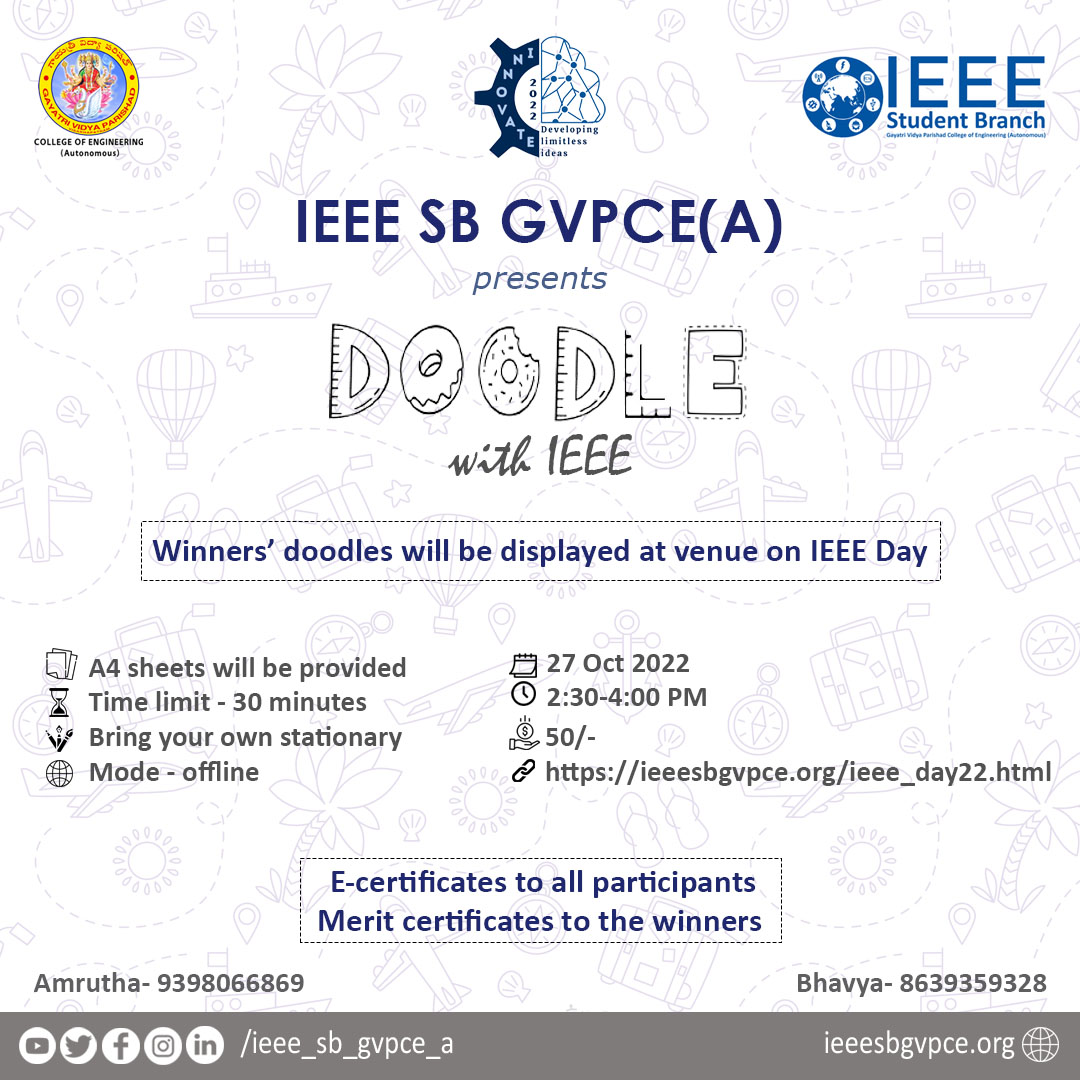
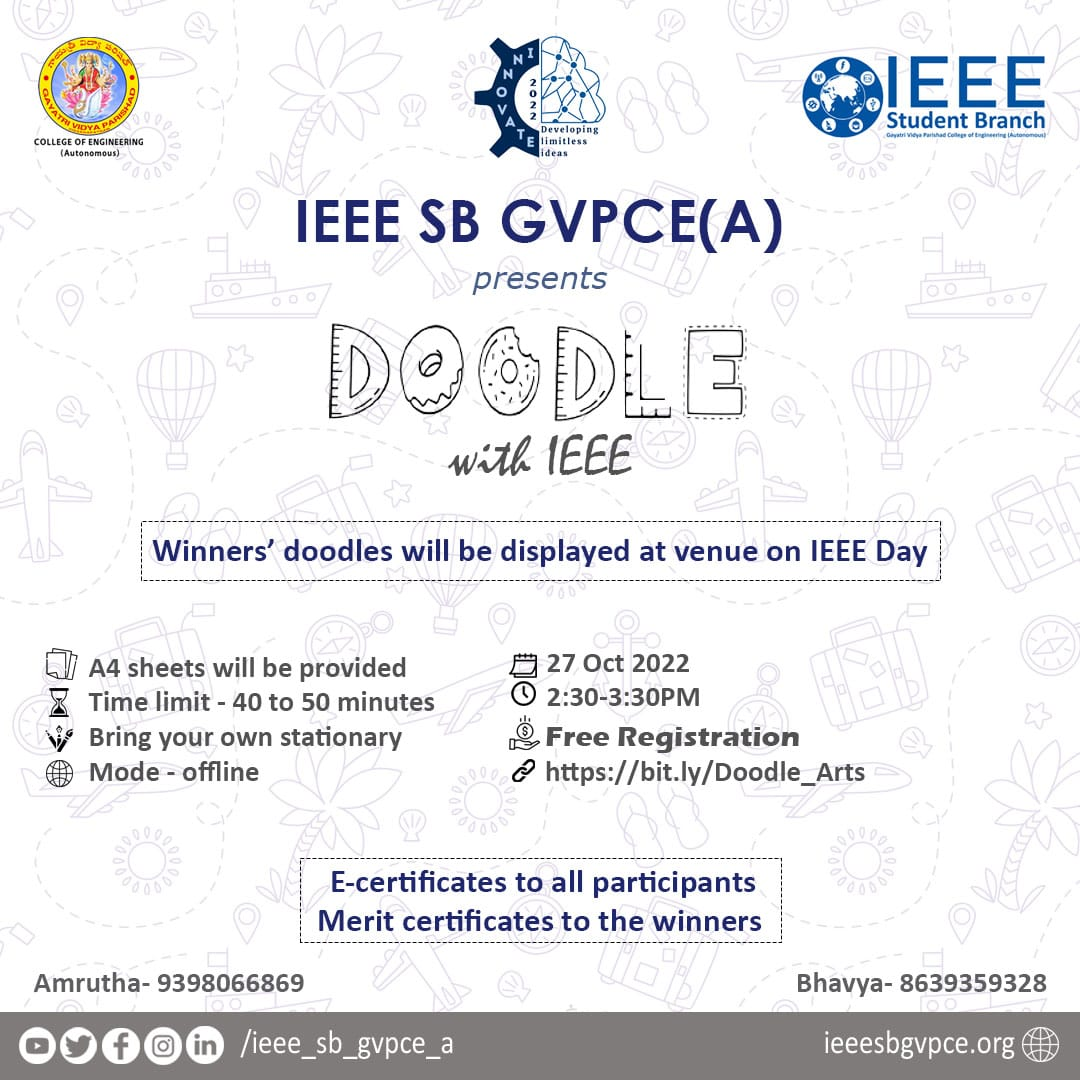
updates

diff --git a/ieee_day22.html b/ieee_day22.html
@@ -344,6 +344,28 @@
             </div>
           </div>
         </div>
+        <div class="accordion-item">
+          <h2 class="accordion-header">
+            <button type="button" class="accordion-button collapsed" data-bs-toggle="collapse"
+              data-bs-target="#collapseThree">
+              <h4 class="eventname">Script n' Strike</h4>
+            </button>
+          </h2>
+          <div class="accordion-collapse collapse" id="collapseThree" data-bs-parent="#accordionSection">
+            <div class="accordion-body">
+              <div class="card">
+                <img src="images/ieee_day22/script and strike.png" class="card-img-top" alt="..." />
+                <div class="card-body text-center">
+                  <h4 class="card-title">Script n’ Strike: </h4>
+                  <p class="card-text">Editing has become an important part of modern day’s lifestyle. Anyone can edit photos, but those who can edit videos have a different level. Showcase your video editing skills by registering for Script n’ Strike.
+                  </p>
+                  <a href="events\2022\ieee_day22\45_script_n'_strike.html"
+                    class="btn btn-primary event-page-link">Register Here</a>
+                </div>
+              </div>
+            </div>
+          </div>
+        </div>
       </div>
       <div class="tab-pane fade" id="page4" role="tabpanel" aria-labelledby="paget4">
         <div class="accordion mt-4" id="accordionSection">
@@ -698,11 +720,11 @@
 
           <div class="cost">
             <div style="text-align: center; width: 100%">
-              <span class="shop-item-price rupees colorincard"><strong>₹50</strong></span><br />
+              <span class="shop-item-price rupees colorincard"><strong>₹0</strong></span><br />
               <span class="ieee_mem colorincard"><strong>(IEEE members)</strong></span>
             </div>
             <div style="text-align: center; width: 100%">
-              <span class="shop-item-price rupees colorincard"><strong>₹50</strong> </span><br />
+              <span class="shop-item-price rupees colorincard"><strong>₹0</strong> </span><br />
               <span class="ieee_mem colorincard"><strong>(Non-IEEE)</strong></span>
             </div>
           </div>

diff --git a/events/2022/ieee_day22/46_vlsi.html b/events/2022/ieee_day22/46_vlsi.html
@@ -2,7 +2,7 @@
 <html>
 
 <head>
-    <title>VLSI Workshop
+    <title>SEMICONDUCTOR INDUSTRY
 
     </title>
     <script type="module" src="../../js/hf_single_event.js"></script>
@@ -71,7 +71,7 @@
            
 
                     <p><span class="heading">Date:</span> 30 oct '22</p>
-                    <p><span class="heading">Time:</span>11:30 am - 12:30 pm</p>
+                    <p><span class="heading">Time:</span>11 am - 12 pm</p>
                     <p><span class="heading">Platform:</span>online</p>
                     <p><span class="heading">registraion fee: </span>free</p>
                 </div>

diff --git a/events/2022/ieee_day22/42_doodle.html b/events/2022/ieee_day22/42_doodle.html
@@ -96,7 +96,7 @@
                     <div class="single-detail">
                         <p class="matter">⚡ Merit certificate for Winners.</p>
                         <p class="matter">⚡ Participation certificate for all.</p>
-                        <p><b>Registration Fee - 50/-</b></p>
+                        <p class="matter">No Registration Fee</p>
                     </div>
 
 
